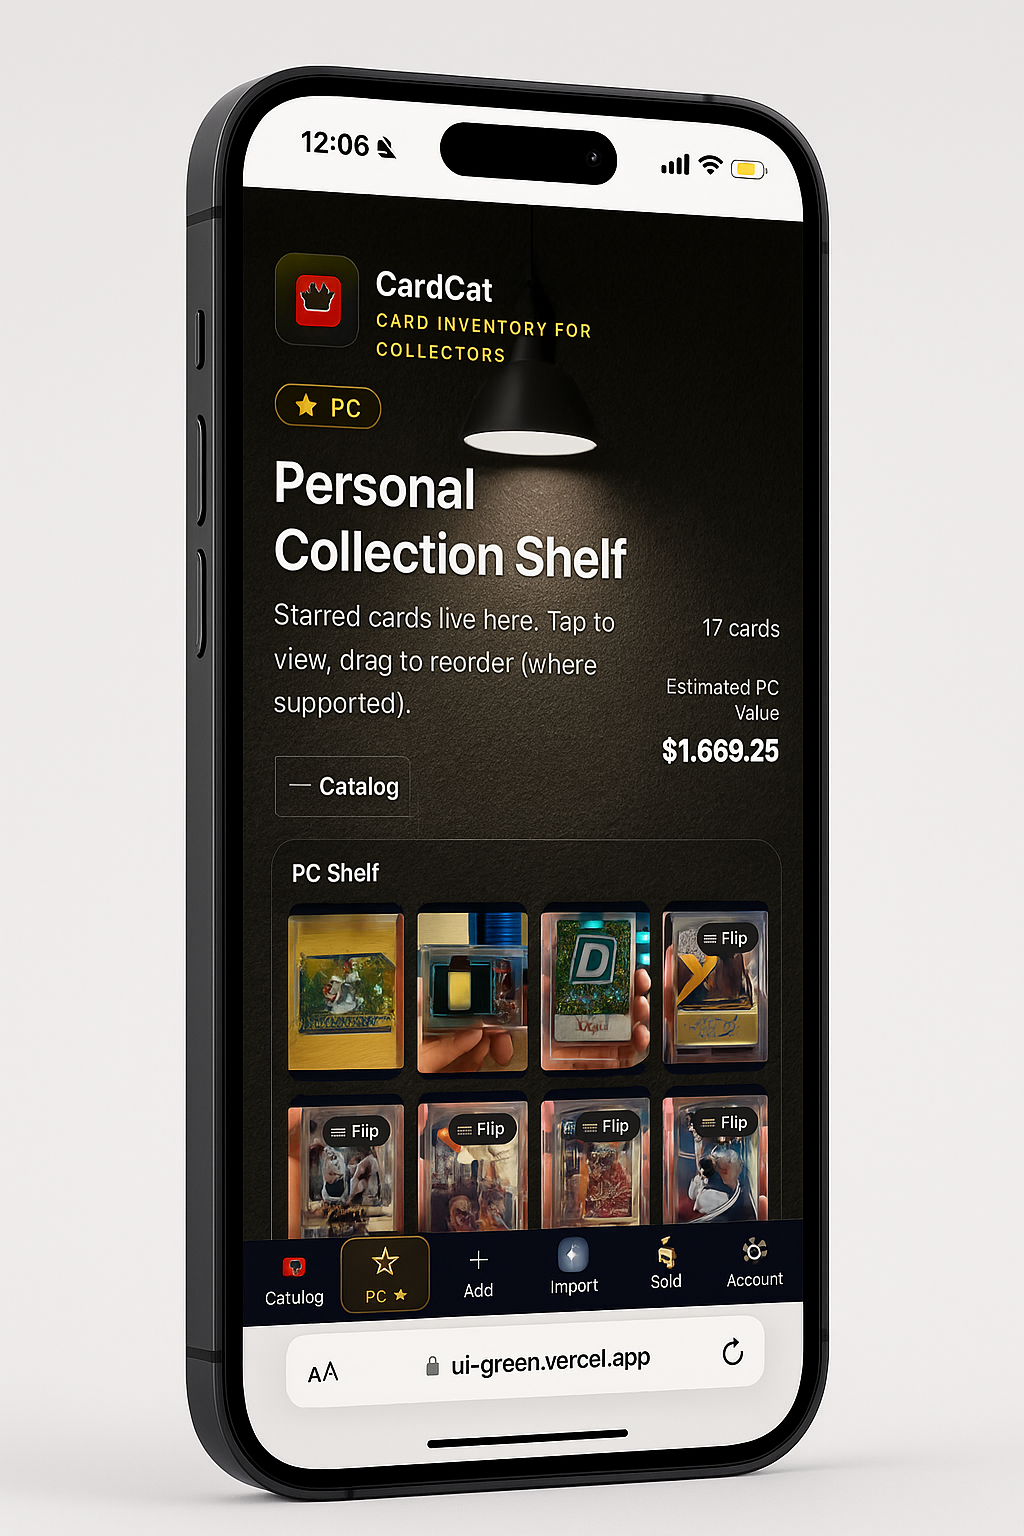
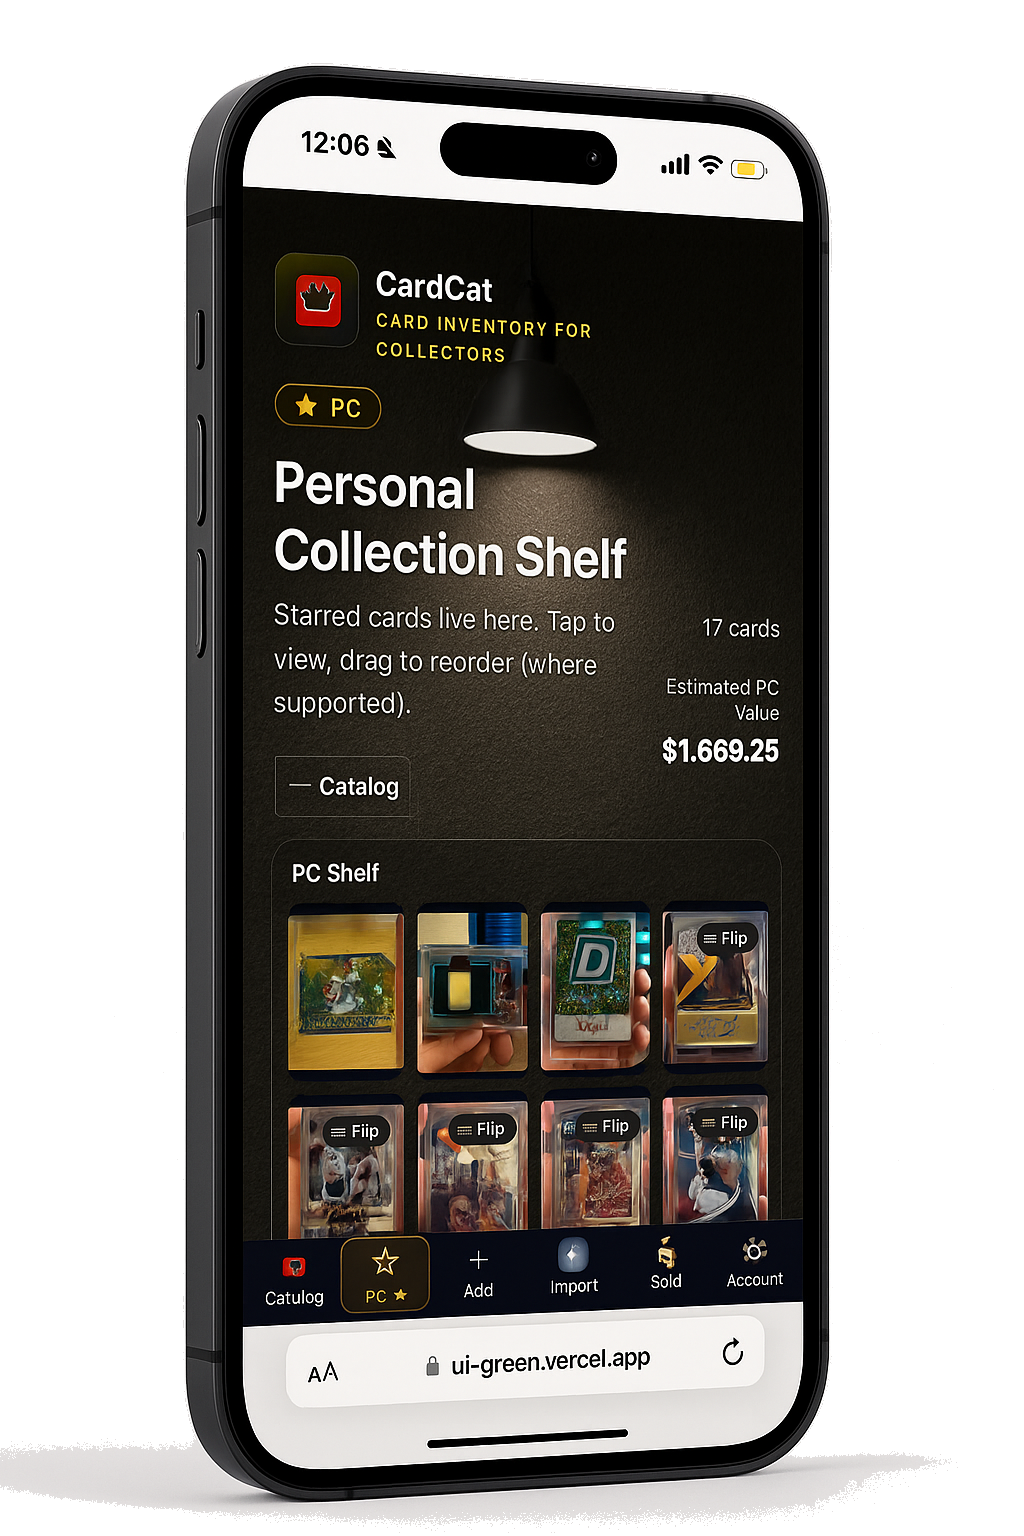
Make iPhone mockups transparent to match home background

Changed region(s): [[0.0, 0.0, 1.0, 0.2188], [0.0, 0.9062, 1.0, 1.0]]

diff --git a/app/features/page.tsx b/app/features/page.tsx
@@ -66,12 +66,12 @@ export default function FeaturesPage() {
               <img
                 src="/iphone-pc-mockup-1.png"
                 alt="CardCat iPhone mockup"
-                className="w-full h-auto rounded-[26px] border border-white/10 bg-slate-950/20"
+                className="w-full h-auto rounded-[26px] border border-white/10"
               />
               <img
                 src="/iphone-pc-mockup-2.png"
                 alt="CardCat iPhone mockup variant"
-                className="w-full h-auto rounded-[26px] border border-white/10 bg-slate-950/20"
+                className="w-full h-auto rounded-[26px] border border-white/10"
               />
             </div>
           </div>

diff --git a/app/page.tsx b/app/page.tsx
@@ -216,12 +216,12 @@ export default function Home() {
               <img
                 src="/iphone-pc-mockup-1.png"
                 alt="CardCat on iPhone mockup"
-                className="w-full h-auto rounded-[26px] border border-white/10 bg-slate-950/20"
+                className="w-full h-auto rounded-[26px] border border-white/10"
               />
               <img
                 src="/iphone-pc-mockup-2.png"
                 alt="CardCat on iPhone mockup variant"
-                className="w-full h-auto rounded-[26px] border border-white/10 bg-slate-950/20"
+                className="w-full h-auto rounded-[26px] border border-white/10"
               />
             </div>
           </div>
